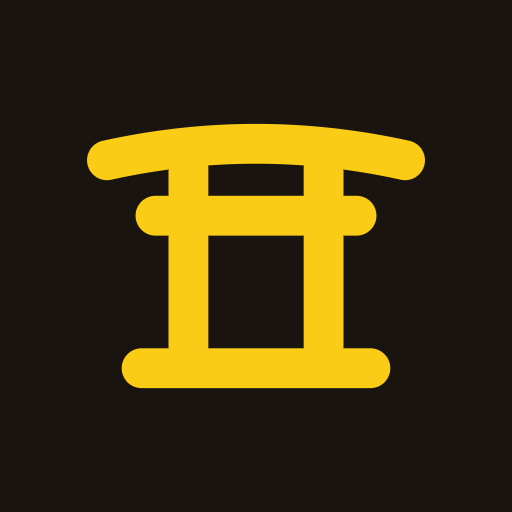
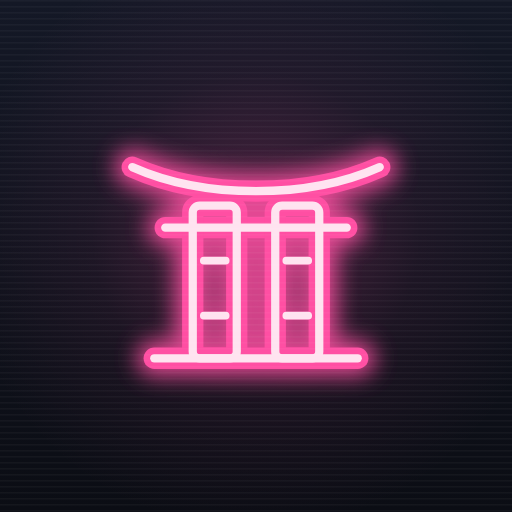
L'icona dell'app è il torii al neon
- public/icona.svg: il disegno sorgente — torii di volumi a tubo neon
  sakura, alone, righe di scansione, fondo blu notte pieno (iOS arrotonda
  da solo gli angoli).
- scripts/genera-icone.mjs: rigenera icona-180/192/512 e la maskable con
  Chrome o Edge senza finestra; la maskable ha il torii più piccolo.
- favicon.svg nel neon; scorciatoia del manifest «Adesso» → «Home».
- sw.js: guscio a v2, o la copia d'ottone di icona-180 resterebbe in
  cache sul telefono.

diff --git a/public/sw.js b/public/sw.js
@@ -14,7 +14,9 @@
 const API = new URL(self.location).searchParams.get("api") || "";
 
 // Il guscio ha la versione: cambiando le regole qui sotto va buttato via.
-const GUSCIO = "mv-guscio-v1";
+// v2 (02/11/2026): l'icona dell'app è diventata il torii al neon, e la
+// copia d'ottone tenuta qui dentro non deve tornare a galla.
+const GUSCIO = "mv-guscio-v2";
 
 // Le risorse no. I nomi dei file di Vite contengono l'impronta del
 // contenuto, quindi una copia vecchia non è mai una copia sbagliata — ed
